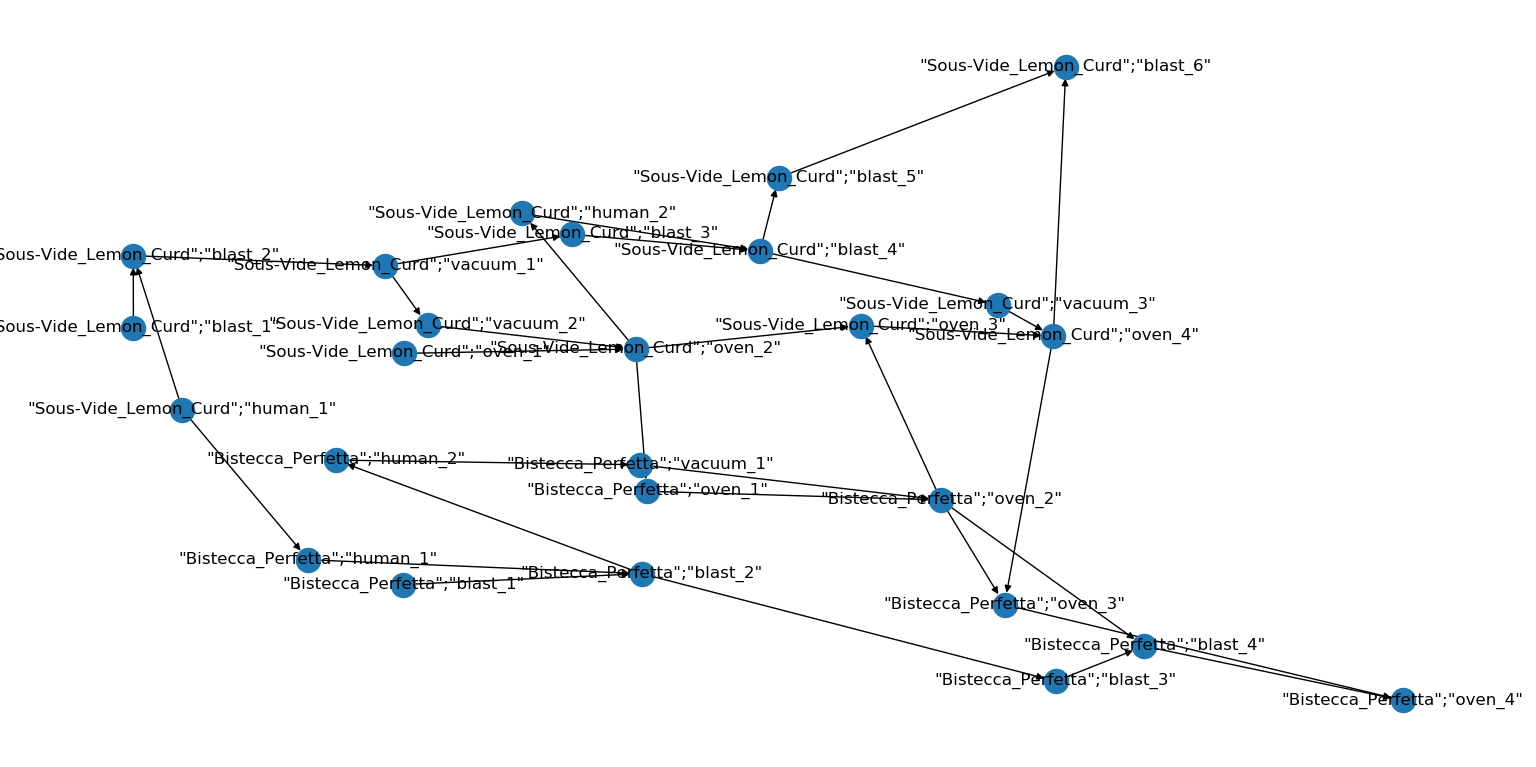
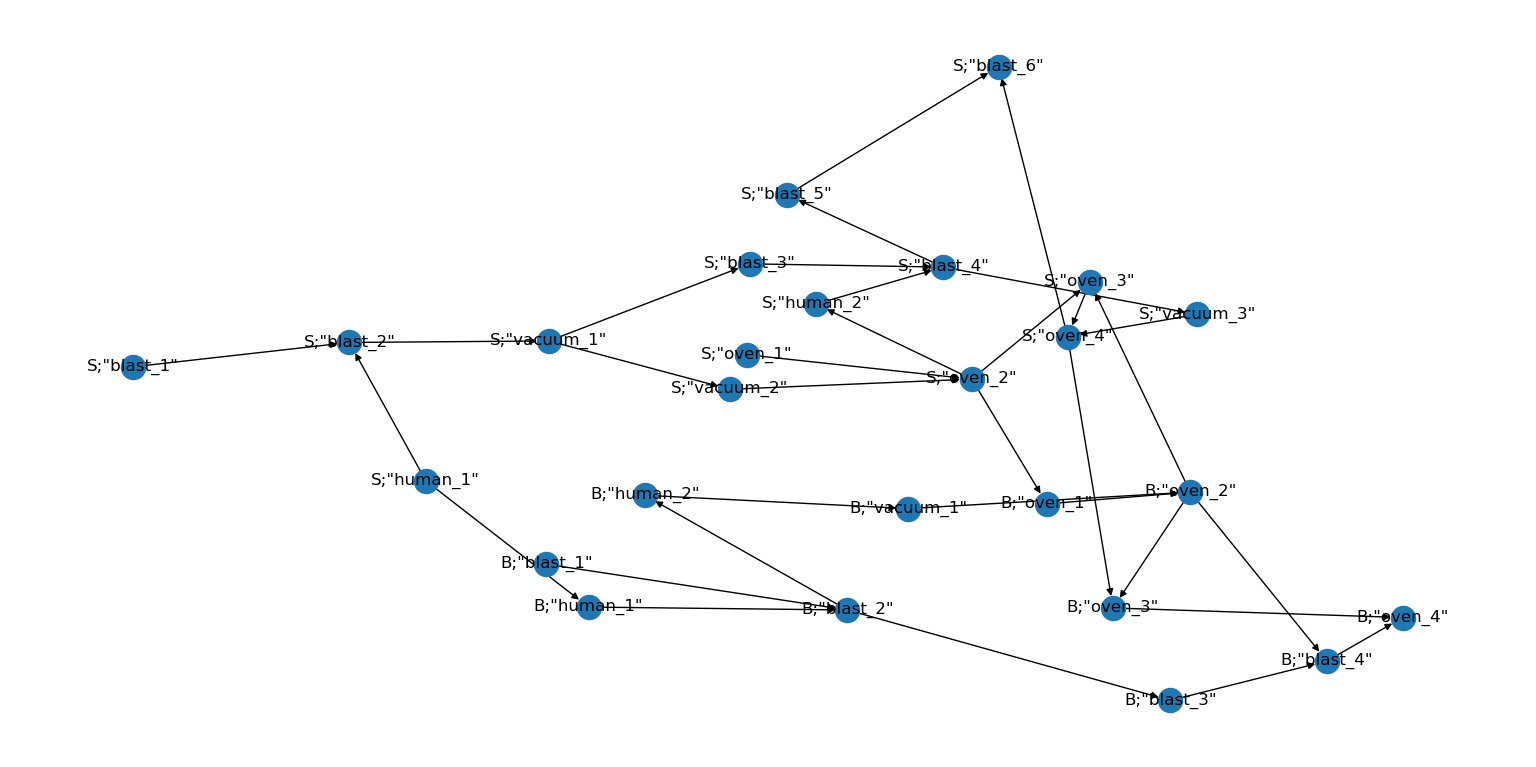
Bug FIx

diff --git a/scheduler_graph.py b/scheduler_graph.py
@@ -453,6 +453,16 @@ def SIAF_scheduler():
                                     if not isinstance(step_1, PreHeat) or step_1.attributes["temperature"] != step.attributes["temperature"]:
                                         model.AddNoOverlap([all_steps[(rec_id, step_id, compatible_machine, 0)].interval,
                                                             all_steps[(rec_id_1, step_id_1, compatible_machine, 0)].interval])
+            elif isinstance(step, PreBlast):
+                for rec_id_1, receipt_1 in enumerate(receipts):
+                    for step_id_1, step_1 in enumerate(receipt_1):
+                        if step != step_1:
+                            preBlast_cms = find_compatible_machines(step)
+                            for compatible_machine in find_compatible_machines(step_1):
+                                if compatible_machine in preBlast_cms:
+                                    if not isinstance(step_1, PreBlast) or step_1.attributes["temperature"] != step.attributes["temperature"]:
+                                        model.AddNoOverlap([all_steps[(rec_id, step_id, compatible_machine)].interval,
+                                                            all_steps[(rec_id_1, step_id_1, compatible_machine)].interval])
                                    
                                     # if ((isinstance(step_1, OvenCook) or isinstance(step_1, PreStep))
                                     #     and
@@ -538,7 +548,11 @@ def SIAF_scheduler():
                     # ovencook
                     for rec_id_1, receipt_1 in enumerate(receipts):
                         for step_id_1, step_1 in enumerate(receipt_1):
-                            if step != step_1 and cook_index != step_id_1:
+                            if ((step != step_1 and cook_index != step_id_1)
+                                and
+                                ((not isinstance(step_1, PreHeat)) or step.attributes["temperature"] != step_1.attributes["temperature"])
+                                and
+                                ((not isinstance(step_1, OvenCook)) or step.attributes["temperature"] != step_1.attributes["temperature"])):
                                 for compatible_machine_1 in find_compatible_machines(step_1):
                                     if compatible_machine == compatible_machine_1:
                                         oven_activity_starts_after = model.NewBoolVar(
@@ -570,6 +584,34 @@ def SIAF_scheduler():
                     # model.Add(all_steps[(rec_id, step_id, compatible_machine)].end  + 1
                     #         >=
                     #         all_steps[(rec_id, blast_index, compatible_machine)].start)
+                    for rec_id_1, receipt_1 in enumerate(receipts):
+                        for step_id_1, step_1 in enumerate(receipt_1):
+                            if ((step != step_1 and blast_index != step_id_1)
+                                and
+                                ((not isinstance(step_1, PreBlast)) or step.attributes["temperature"] != step_1.attributes["temperature"])
+                                and
+                                ((not isinstance(step_1, Blast)) or step.attributes["temperature"] != step_1.attributes["temperature"])):
+                                for compatible_machine_1 in find_compatible_machines(step_1):
+                                    if compatible_machine == compatible_machine_1:
+                                        blast_activity_starts_after = model.NewBoolVar(
+                                            "blast_activity_starts_after_%i_%i_%i_%i_%i" % (rec_id, step_id, rec_id_1, step_id_1, compatible_machine)
+                                        )
+                                        model.Add(all_steps[(rec_id_1, step_id_1, compatible_machine)].start
+                                                  > 
+                                                  all_steps[(rec_id, blast_index, compatible_machine)].end).OnlyEnforceIf(
+                                                      blast_activity_starts_after
+                                                  )
+                                        
+                                        blast_activity_ends_before = model.NewBoolVar(
+                                            "blast_activity_ends_before_%i_%i_%i_%i_%i" % (rec_id, step_id, rec_id_1, step_id_1, compatible_machine)
+                                        )
+                                        model.Add(all_steps[(rec_id_1, step_id_1, compatible_machine)].end
+                                                  <
+                                                  all_steps[(rec_id, step_id, compatible_machine)].start).OnlyEnforceIf(
+                                                      blast_activity_ends_before
+                                                  )
+
+                                        model.AddBoolOr([blast_activity_starts_after, blast_activity_ends_before])
 
 
     '''
@@ -887,6 +929,14 @@ def SIAF_scheduler():
                                     if m_id == m_id_1:
                                         model.AddNoOverlap([all_steps[rec_id, step_id, m_id, 0].interval,
                                                             all_steps[rec_id_1, step_id_1, m_id_1, 0].interval])
+                        elif (isinstance(step, Blast) and 
+                            isinstance(step_1, Blast) and
+                            step.attributes["temperature"] != step_1.attributes["temperature"]):
+                            for m_id in find_compatible_machines(step):
+                                for m_id_1 in find_compatible_machines(step_1):
+                                    if m_id == m_id_1:
+                                        model.AddNoOverlap([all_steps[rec_id, step_id, m_id].interval,
+                                                            all_steps[rec_id_1, step_id_1, m_id_1].interval])
 
 
 

diff --git a/utils.py b/utils.py
@@ -117,6 +117,7 @@ class WFCoreUtils:
             self.visited = []
             self.incoming = {}
             self.parallel_index = 0
+            self.n_fake = 0
             self.new_json = {}
             self.new_json["Id"] = "New Workflow"
             self.new_json["Version"] = 1
@@ -169,7 +170,8 @@ class WFCoreUtils:
                 if step_json["Inputs"]["BlastValue1"] == self.PREBLAST_STEP_ID:
                     self.step_dict[step_id] = PreBlast({"receipe": "\"" + self.receipe_name + "\"", "step": "\"" + step_id + "\"", "duration": step_duration}, None)
                 else:
-                    self.step_dict[step_id] = Blast({"receipe": "\"" + self.receipe_name + "\"", "step": "\"" + step_id + "\"", "duration": step_duration})
+                    step_temperature = step_json["Inputs"]["BlastValue2"]
+                    self.step_dict[step_id] = Blast({"receipe": "\"" + self.receipe_name + "\"", "step": "\"" + step_id + "\"", "duration": step_duration, "temperature": step_temperature})
             elif (step_json["StepType"] == self.HUMAN_STEP_ID):
                 self.step_dict[step_id] = HumanStep({"receipe": "\"" + self.receipe_name + "\"", "step": "\"" + step_id + "\"", "duration": step_duration})
             elif (step_json["StepType"] == self.VACUUM_STEP_ID):
@@ -195,6 +197,7 @@ class WFCoreUtils:
                     self.step_dict[step_id].attributes["temperature"] = self.step_dict[next_step_id].attributes["temperature"]
                     self.step_dict[step_id].next_step = self.step_dict[next_step_id]
                 if isinstance(self.step_dict[step_id], PreBlast) and isinstance(self.step_dict[next_step_id], Blast):
+                    self.step_dict[step_id].attributes["temperature"] = self.step_dict[next_step_id].attributes["temperature"]
                     self.step_dict[step_id].next_step = self.step_dict[next_step_id]
                 self.graph.add_edge(self.step_dict[step_id], self.step_dict[next_step_id])
 
@@ -418,8 +421,8 @@ class WFCoreUtils:
 
         for i, next_step in enumerate(next_steps):
             if (not (next_step in self.visited)) or (next_step in self.find_starting_nodes(graph)):
-                print("Parallel")
-                print(next_step.attributes["receipe"] + next_step.attributes["step"])
+                # print("Parallel")
+                # print(next_step.attributes["receipe"] + next_step.attributes["step"])
                 json_next_step, json_wait_next_step, other_json_parallel = self.get_json_from_step(next_step, list(graph.successors(next_step)), graph)
                 if other_json_parallel and self.new_json["Steps"] != []:
                     self.new_json["Steps"].append(other_json_parallel)
@@ -429,6 +432,15 @@ class WFCoreUtils:
                 json_parallel["Do"][i].append(json_next_step)
                 json_parallel["Do"][i].append(json_wait_next_step)
                 self.visited.append(next_step)
+            else:
+                fake_activity = {
+                    "Id": "\"fake_" + str(self.n_fake) + "\"",
+                    "StepType": "WorkflowCore.Steps.FakeStep, ProvaWOrkflowCorewebapp",
+                    "NextStepId": next_step.attributes["receipe"][:-1] + ";" + next_step.attributes["step"][1:]
+                }
+                self.n_fake += 1
+
+                json_parallel["Do"][i].append(fake_activity)
 
         return json_parallel
 

diff --git a/receipt.py b/receipt.py
@@ -5,7 +5,14 @@ class Step:
         self.attributes = attributes
 
     def __str__(self):
-        return self.attributes["receipe"] + ";" + self.attributes["step"]
+        r = ""
+        if self.attributes["receipe"] == '"Sous-Vide_Lemon_Curd"':
+            r = "S"
+        elif self.attributes["receipe"] == '"Bistecca_Perfetta"':
+            r = "B"
+        else:
+            return self.attributes["receipe"] + ";" + self.attributes["step"]
+        return r + ";" + self.attributes["step"]
 
     # def __eq__(self, other):
     #     if isinstance(other, self.__class__):
